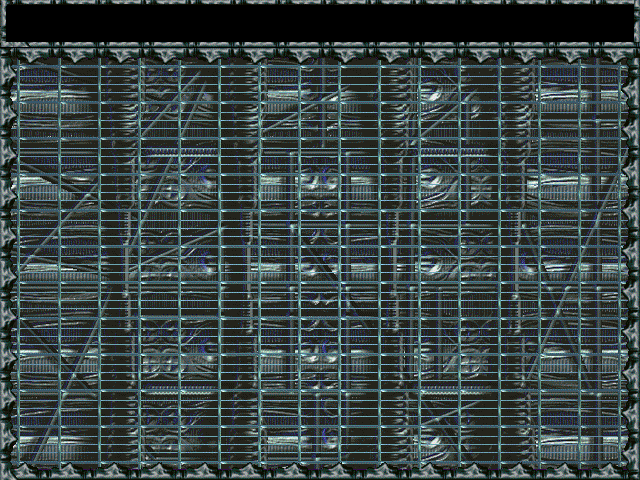
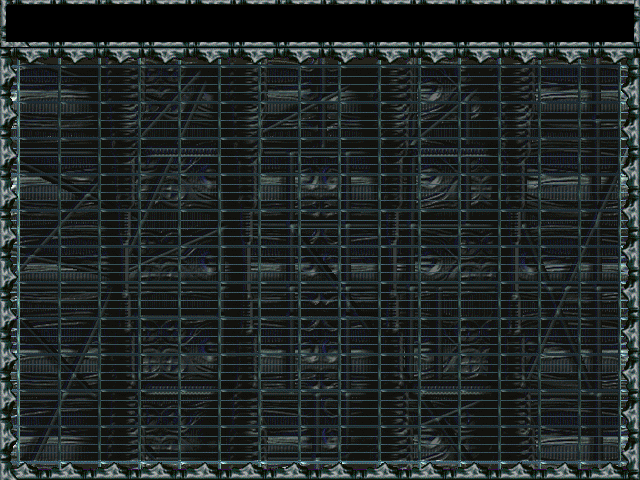
Steady bomberman animations, no warp ping-pong, darker Aliens floor
- Animations: every frame of an .ANI file already shares one canvas and
  hotspot, so the frames are aligned as drawn; the small per-state offsets
  on top made the body wobble. Measured on the feet: e.g. death 9 drifts
  3 px with them and not at all without; the apple-bite idle 0.45 px vs
  0.05. The bomberman sequences are now drawn with one offset for the whole
  sequence (its most common one, so they stay lined up with each other);
  flames and other effects, whose offsets are positional, are unchanged.
- Warps: arriving nudges you a pixel off the destination's centre, so
  walking back across it (e.g. up after a nudge down) counted as stepping
  onto the warp and sent you off again. The destination now stays locked
  until you have left its tile. Tested from every entry side and exit
  direction; stepping back on after leaving still warps.
- Aliens arena: the floor's playing area (FIELD6) is darkened by half;
  tools/build_sprites.py does the same when the assets are rebuilt.

Claude-Session: https://claude.ai/code/session_016J2AKY2fXhTAzqezXYKHvh

diff --git a/web/js/render.js b/web/js/render.js
@@ -107,15 +107,15 @@
   }
   // classic players: only walk, stand and death exist, so the special moves show the standing pose
   function drawClassicPlayer(ctx, g, p, t, color, dn) {
-    if (!p.alive) { G.draw(ctx, 'classic death', Math.min(10, Math.floor(p.dieT / (AB.TPR * 3))), p.x, p.y + 17 + p.dieY, color, true); return; }
+    if (!p.alive) { G.draw(ctx, 'classic death', Math.min(10, Math.floor(p.dieT / (AB.TPR * 3))), p.x, p.y + 17 + p.dieY, color, 'steady'); return; }
     let y = p.y + 17;
     if (p.tramp) { G.draw(ctx, 'shadow', 0, p.x, p.y + 14, -1, false); y -= p.tramp.h; }
     const sp = p.special;
     let d = dn, jx = 0;
     if (sp === 6 || sp === 7) d = AB.DIRNAME[(Math.floor(p.specialT / 3)) & 3];
     if (sp === 3 || sp >= 20) jx = (t >> 1) % 2 ? 1 : -1;
-    if (p.moving && !sp) G.draw(ctx, 'classic walk ' + d, [0, 1, 0, 2][Math.floor(p.walkPix / 6) % 4], p.x, y, color, true);
-    else G.draw(ctx, 'classic stand ' + d, 0, p.x + jx, y, color, true);
+    if (p.moving && !sp) G.draw(ctx, 'classic walk ' + d, [0, 1, 0, 2][Math.floor(p.walkPix / 6) % 4], p.x, y, color, 'steady');
+    else G.draw(ctx, 'classic stand ' + d, 0, p.x + jx, y, color, 'steady');
     if (p.held >= 0) { const b = g.bombs[p.held]; if (b && !b.dead) drawHeldBomb(ctx, b, p.x, y - 52); }
   }
 
@@ -129,7 +129,7 @@
       const name = 'die green ' + p.dieAnim;
       const n = G.seqLen(name) || 40;
       const st = Math.min(n - 1, Math.floor(p.dieT / AB.TPR));
-      G.draw(ctx, name, st, p.x, p.y + p.dieY, color, true);
+      G.draw(ctx, name, st, p.x, p.y + p.dieY, color, 'steady');
       return;
     }
     if (p.dis[AB.DIS.INVISIBLE] && (t % 90) > 6) return;
@@ -139,12 +139,12 @@
       y -= p.tramp.h;
     }
     const sp = p.special;
-    if (sp === 6 || sp === 7) { G.draw(ctx, 'spin', Math.floor(p.specialT / 2), p.x, y, color, true); return; }
-    if (sp >= 20) { G.draw(ctx, 'cornerhead ' + (sp - 20), Math.floor(p.specialT / AB.TPR), p.x, y, color, true); return; }
-    if (sp === 1) { G.draw(ctx, 'kick ' + dn, Math.floor(p.specialT / AB.TPR), p.x, y, color, true); return; }
-    if (sp === 2) { G.draw(ctx, 'punch ' + dn, Math.floor(p.specialT / AB.TPR) + 1, p.x, y, color, true); return; }
+    if (sp === 6 || sp === 7) { G.draw(ctx, 'spin', Math.floor(p.specialT / 2), p.x, y, color, 'steady'); return; }
+    if (sp >= 20) { G.draw(ctx, 'cornerhead ' + (sp - 20), Math.floor(p.specialT / AB.TPR), p.x, y, color, 'steady'); return; }
+    if (sp === 1) { G.draw(ctx, 'kick ' + dn, Math.floor(p.specialT / AB.TPR), p.x, y, color, 'steady'); return; }
+    if (sp === 2) { G.draw(ctx, 'punch ' + dn, Math.floor(p.specialT / AB.TPR) + 1, p.x, y, color, 'steady'); return; }
     if (sp === 4) {
-      G.draw(ctx, 'pickup ' + dn, Math.floor(p.specialT / AB.TPR), p.x, y, color, true);
+      G.draw(ctx, 'pickup ' + dn, Math.floor(p.specialT / AB.TPR), p.x, y, color, 'steady');
       // the bomb follows the pickup curve (VALUELST #500-#506: forward, height pairs)
       const b = g.bombs[p.held];
       if (b && !b.dead) {
@@ -155,23 +155,23 @@
       }
       return;
     }
-    if (sp === 3) { G.draw(ctx, 'stand ' + dn, 0, p.x + ((t >> 1) % 2 ? 1 : -1), y, color, true); return; }
+    if (sp === 3) { G.draw(ctx, 'stand ' + dn, 0, p.x + ((t >> 1) % 2 ? 1 : -1), y, color, 'steady'); return; }
     if (p.held >= 0) {
-      if (p.moving) G.draw(ctx, 'walkbomb ' + dn, Math.floor(p.walkPix / 3), p.x, y, color, true);
-      else G.draw(ctx, 'standbomb ' + dn, 0, p.x, y, color, true);
+      if (p.moving) G.draw(ctx, 'walkbomb ' + dn, Math.floor(p.walkPix / 3), p.x, y, color, 'steady');
+      else G.draw(ctx, 'standbomb ' + dn, 0, p.x, y, color, 'steady');
       const b = g.bombs[p.held];
       if (b && !b.dead) drawHeldBomb(ctx, b, p.x, y - 40 + (p.moving ? ((p.walkPix >> 2) % 2) : 0));
       return;
     }
-    if (p.moving) { G.draw(ctx, 'walk ' + dn, Math.floor(p.walkPix / 3), p.x, y, color, true); return; }
+    if (p.moving) { G.draw(ctx, 'walk ' + dn, Math.floor(p.walkPix / 3), p.x, y, color, 'steady'); return; }
     const idle = p.idleT - AB.IDLE_AFTER * AB.TPS;
     if (idle >= 0 && g.S.idleAnims !== false) {
       const a = AB.IDLE_ANIMS[p.idleN % AB.IDLE_ANIMS.length], seq = G.seqFrom(a.ani, a.seq);
       const st = Math.floor(idle / AB.TPR);
       // the idle .ANI files put the feet on the hotspot; the stand sequence draws them 19 px lower
-      if (seq && st < seq.states.length) { G.draw(ctx, seq, st, p.x + 2, y + 19, color, true); return; }
+      if (seq && st < seq.states.length) { G.draw(ctx, seq, st, p.x + 2, y + 19, color, 'steady'); return; }
     }
-    G.draw(ctx, 'stand ' + dn, 0, p.x, y, color, true);
+    G.draw(ctx, 'stand ' + dn, 0, p.x, y, color, 'steady');
   }
 
   function drawHeldBomb(ctx, b, x, yBottom) {

diff --git a/web/js/game.js b/web/js/game.js
@@ -173,6 +173,7 @@
         prevIn: 0, inBits: 0,
         idleT: 0, idleN: pc.slot | 0,       // standing-still timer for the idle animations (cosmetic)
         kills: 0, awesomeCount: 0, tramp: null, warp: null,
+        warpLock: -1,                       // the warp just arrived at: it can't send you on until you've left its tile
         ai: pc.ai ? { plan: null, t: 0 } : null,
         isAI: !!pc.ai,
         aiLevel: pc.aiLevel || 'hard',      // computer skill: 'easy', 'medium' or 'hard' (the original AI)
@@ -435,9 +436,10 @@
       const perp = DX[dir] * oy - DY[dir] * ox;
       const cx = AB.cellX(p.x), cy = AB.cellY(p.y);
       const ax = cx + DX[dir], ay = cy + DY[dir];
+      if (p.warpLock >= 0 && p.warpLock !== idx(cx, cy)) p.warpLock = -1;
       if (along === -1 && !conveyor) {
         const e = this.extras[idx(cx, cy)];
-        if (e && e.t === 'warp') { this.startWarp(p, e); return true; }
+        if (e && e.t === 'warp' && p.warpLock !== idx(cx, cy)) { this.startWarp(p, e); return true; }
         if (e && e.t === 'trampoline') { this.startTrampoline(p); return true; }
       }
       if (along === 0 && p.pw[PW.KICK] && !conveyor) {
@@ -482,7 +484,7 @@
       if (p.special === 6 && p.specialT > K.WARP) {
         const d = p.warp.dest;
         p.x = AB.cellCenterX(d % COLS); p.y = AB.cellCenterY((d / COLS) | 0);
-        p.special = 7; p.specialT = 0;
+        p.special = 7; p.specialT = 0; p.warpLock = d;
         // step off the destination warp so we don't bounce back immediately
         for (let k = 0; k < 4; k++) {
           const dd = (p.dir + k) & 3;
@@ -1109,7 +1111,7 @@
       const mix = (v) => { h ^= (v | 0); h = Math.imul(h, 16777619) >>> 0; };
       mix(this.tick); mix(this.rng.s); if (this.enc) { mix(this.enc.x); mix(this.enc.y); mix(this.enc.ring); mix(this.enc.fast ? 1 : 0); }
       for (const p of this.players) {
-        mix(p.x); mix(p.y); mix(p.alive ? 1 : 0); mix(p.special); mix(p.disT); mix(p.held);
+        mix(p.x); mix(p.y); mix(p.alive ? 1 : 0); mix(p.special); mix(p.disT); mix(p.held); mix(p.warpLock);
         for (const v of p.pw) mix(v);
         for (let d = 0; d < AB.DIS_COUNT; d++) mix(p.dis[d] ? d + 1 : 0);
       }

diff --git a/web/js/gfx.js b/web/js/gfx.js
@@ -152,12 +152,34 @@
   };
 
   // draw state `i` of a sequence; offsets from the .ANI STAT/FRAM records are applied when useOff.
+  // The frames themselves are already aligned (every frame of a file shares one canvas and hotspot), and
+  // the small per-state offsets on top only make the body wobble a pixel or two: with them, the feet of
+  // the death and idle animations drift 1-3 px from state to state, without them they stay put. So a
+  // sequence is drawn with its usual offset (the most common one) for every state, which keeps it lined
+  // up with the other sequences, and parts of a multi-part state keep their offsets relative to the first.
+  // Only the bomberman animations are drawn this way: the flames' offsets are positional and stay.
+  const baseOff = new WeakMap();
+  function seqBase(states) {
+    let b = baseOff.get(states);
+    if (!b) {
+      const n = {};
+      let best = '0,0', bn = 0;
+      for (const st of states) { if (!st.length) continue; const k = st[1] + ',' + st[2]; n[k] = (n[k] || 0) + 1; if (n[k] > bn) { bn = n[k]; best = k; } }
+      b = best.split(',').map(Number);
+      baseOff.set(states, b);
+    }
+    return b;
+  }
   gfx.draw = function (ctx, seqName, i, x, y, color, useOff = true) {
     const s = typeof seqName === 'string' ? seqIndex[seqName] : seqName;
     if (!s || !s.states.length) return;
     const st = s.states[((i % s.states.length) + s.states.length) % s.states.length];
+    if (!st.length) return;
+    // useOff 'steady' (the bomberman animations): one offset for the whole sequence; true: per state
+    const b = useOff === 'steady' ? seqBase(s.states) : [st[1], st[2]];
     for (let k = 0; k < st.length; k += 3) {
-      gfx.frame(ctx, s.ani, st[k], x + (useOff ? st[k + 1] : 0), y + (useOff ? st[k + 2] : 0), color);
+      const ox = useOff ? b[0] + st[k + 1] - st[1] : 0, oy = useOff ? b[1] + st[k + 2] - st[2] : 0;
+      gfx.frame(ctx, s.ani, st[k], x + ox, y + oy, color);
     }
   };
 

diff --git a/tools/build_sprites.py b/tools/build_sprites.py
@@ -72,6 +72,14 @@ for p in glob.glob(os.path.join(RAW, 'DATA/RES/*.PCX')):
     im.save(os.path.join(WEB, 'img', os.path.basename(p)[:-4].lower() + '.png'), optimize=True); n += 1
 print('pcx', n)
 
+# the Aliens arena's floor (FIELD6.PCX) is much brighter than the sprites on it: darken its 15 x 11
+# playing area (AB.OX/OY = 20/64, cells 40 x 36) by half, leaving the frame around it as it is
+from PIL import ImageEnhance
+f6 = os.path.join(WEB, 'img', 'field6.png')
+if os.path.exists(f6):
+    im = Image.open(f6).convert('RGB'); box = (20, 64, 20 + 15 * 40, 64 + 11 * 36)
+    im.paste(ImageEnhance.Brightness(im.crop(box)).enhance(0.5), box); im.save(f6, optimize=True)
+
 # menu cursor: BOMBDUDE.PCX with black keyed out
 im = Image.open(os.path.join(RAW, 'DATA/RES/BOMBDUDE.PCX')).convert('RGBA')
 px = im.load()
